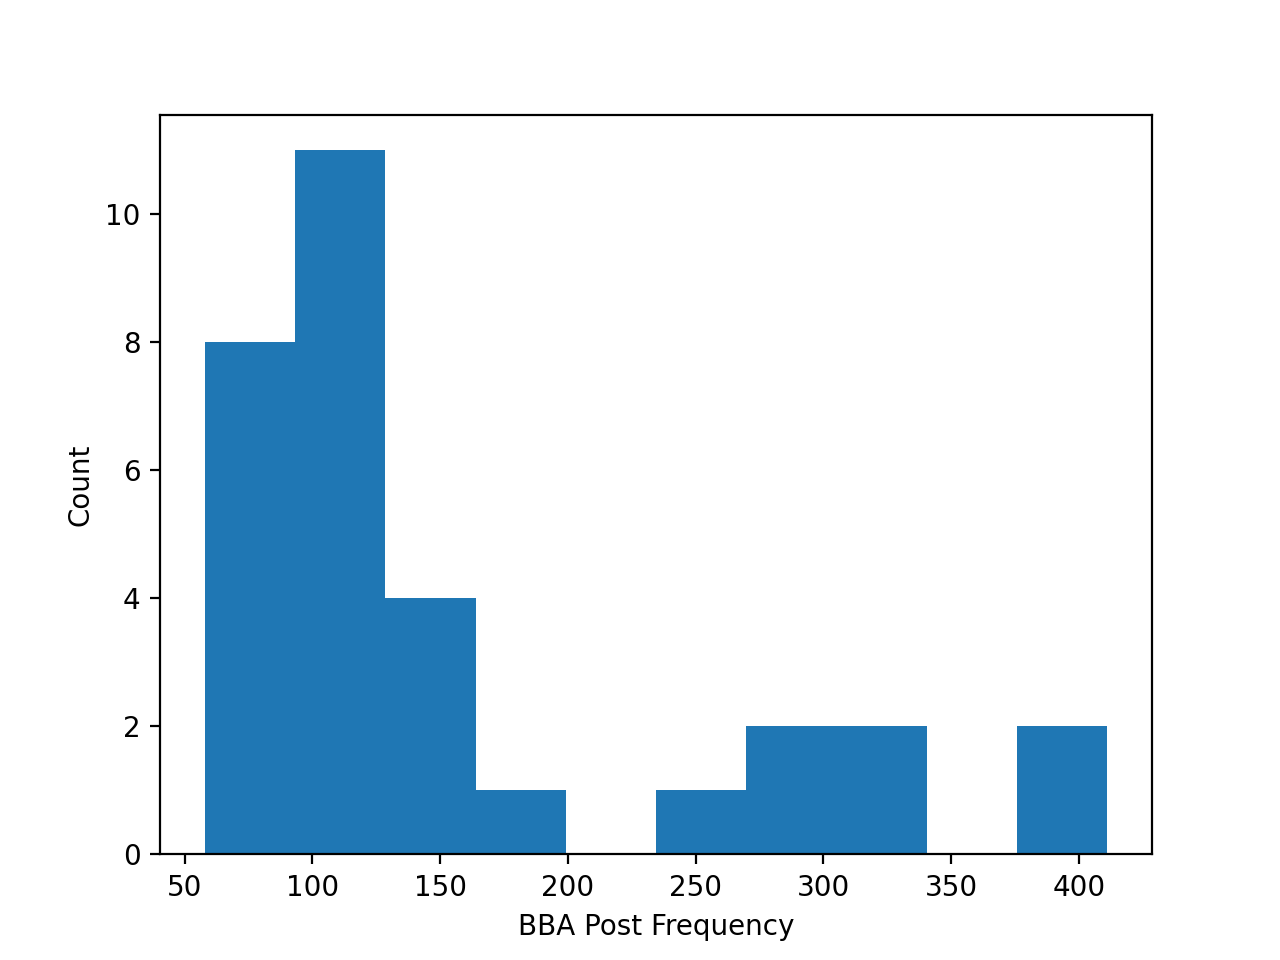
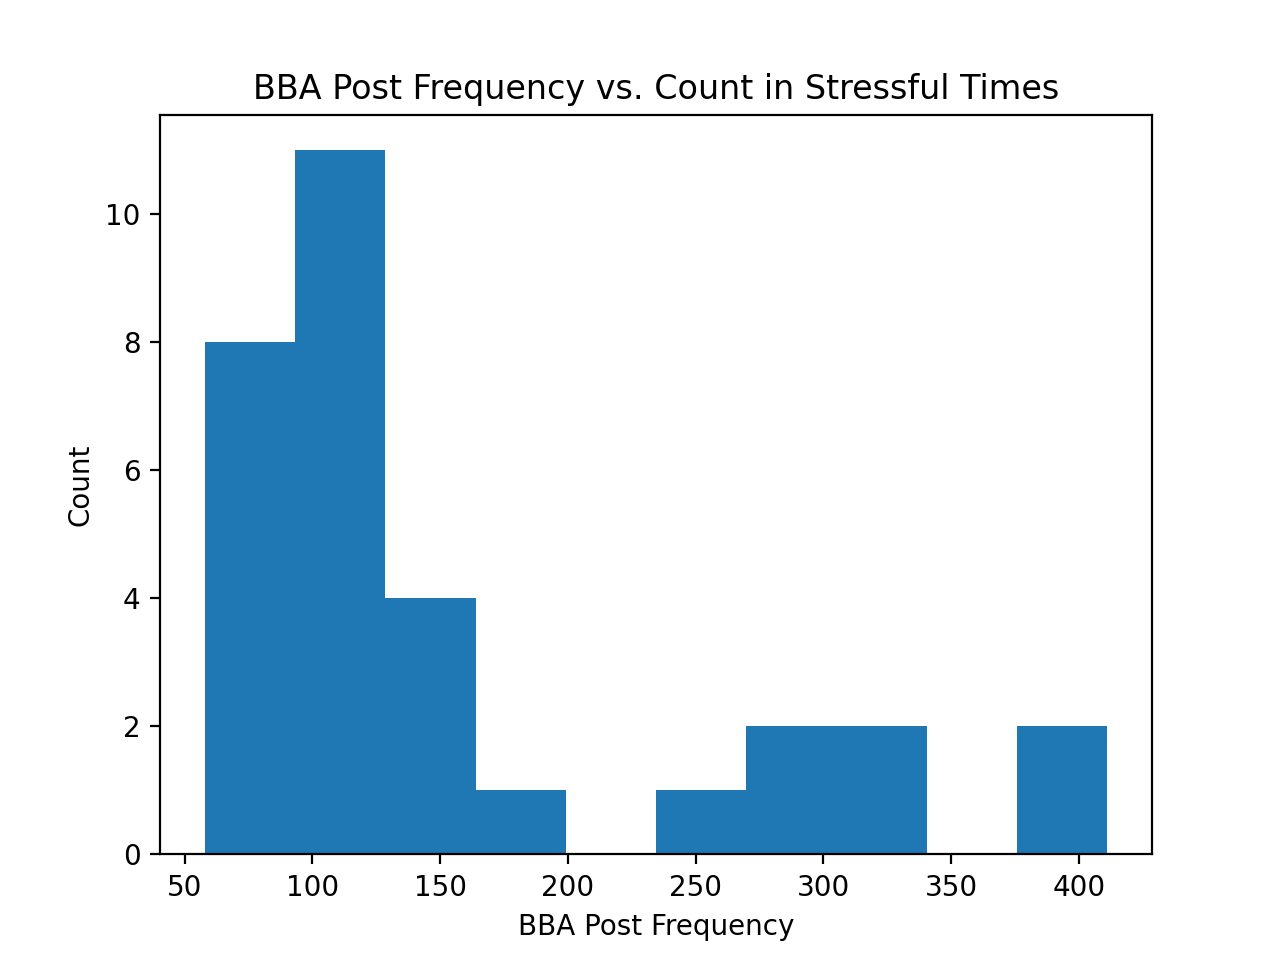
Add labels + regression graph

Changed region(s): [[0.5312, 0.0625, 0.8125, 0.125], [0.1875, 0.0625, 0.4375, 0.125], [0.4688, 0.0625, 0.5, 0.125]]

diff --git a/Workspace/Code/stats.py b/Workspace/Code/stats.py
@@ -67,6 +67,7 @@ def main():
     print(stat2, p2)
 
     plt.hist(bba_stress["Freq"], bins=10)
+    plt.title("BBA Post Frequency vs. Count in Stressful Times")
     plt.xlabel("BBA Post Frequency")
     plt.ylabel("Count")
     plt.show()
@@ -75,6 +76,7 @@ def main():
     plt.ylabel("Count")
     plt.show()
     plt.hist(db_stress["Avg-Sentiment"], bins=10)
+    plt.title("DB Post Sentiment vs. Count in Stressful Times")
     plt.xlabel("DB Post Sentiment")
     plt.ylabel("Count")
     plt.show()
@@ -99,6 +101,9 @@ def main():
     plt.plot(X, Y, "o")
 
     plt.plot([0, 500], [model.intercept_, model.coef_ * 500 + model.intercept_])
+    plt.xlabel("BBA Post Frequency")
+    plt.ylabel("DB Post Sentiment")
+    plt.title("BBA Post Frequency vs. DB Post Sentiment")
     plt.show()
 
 if __name__ == '__main__':
